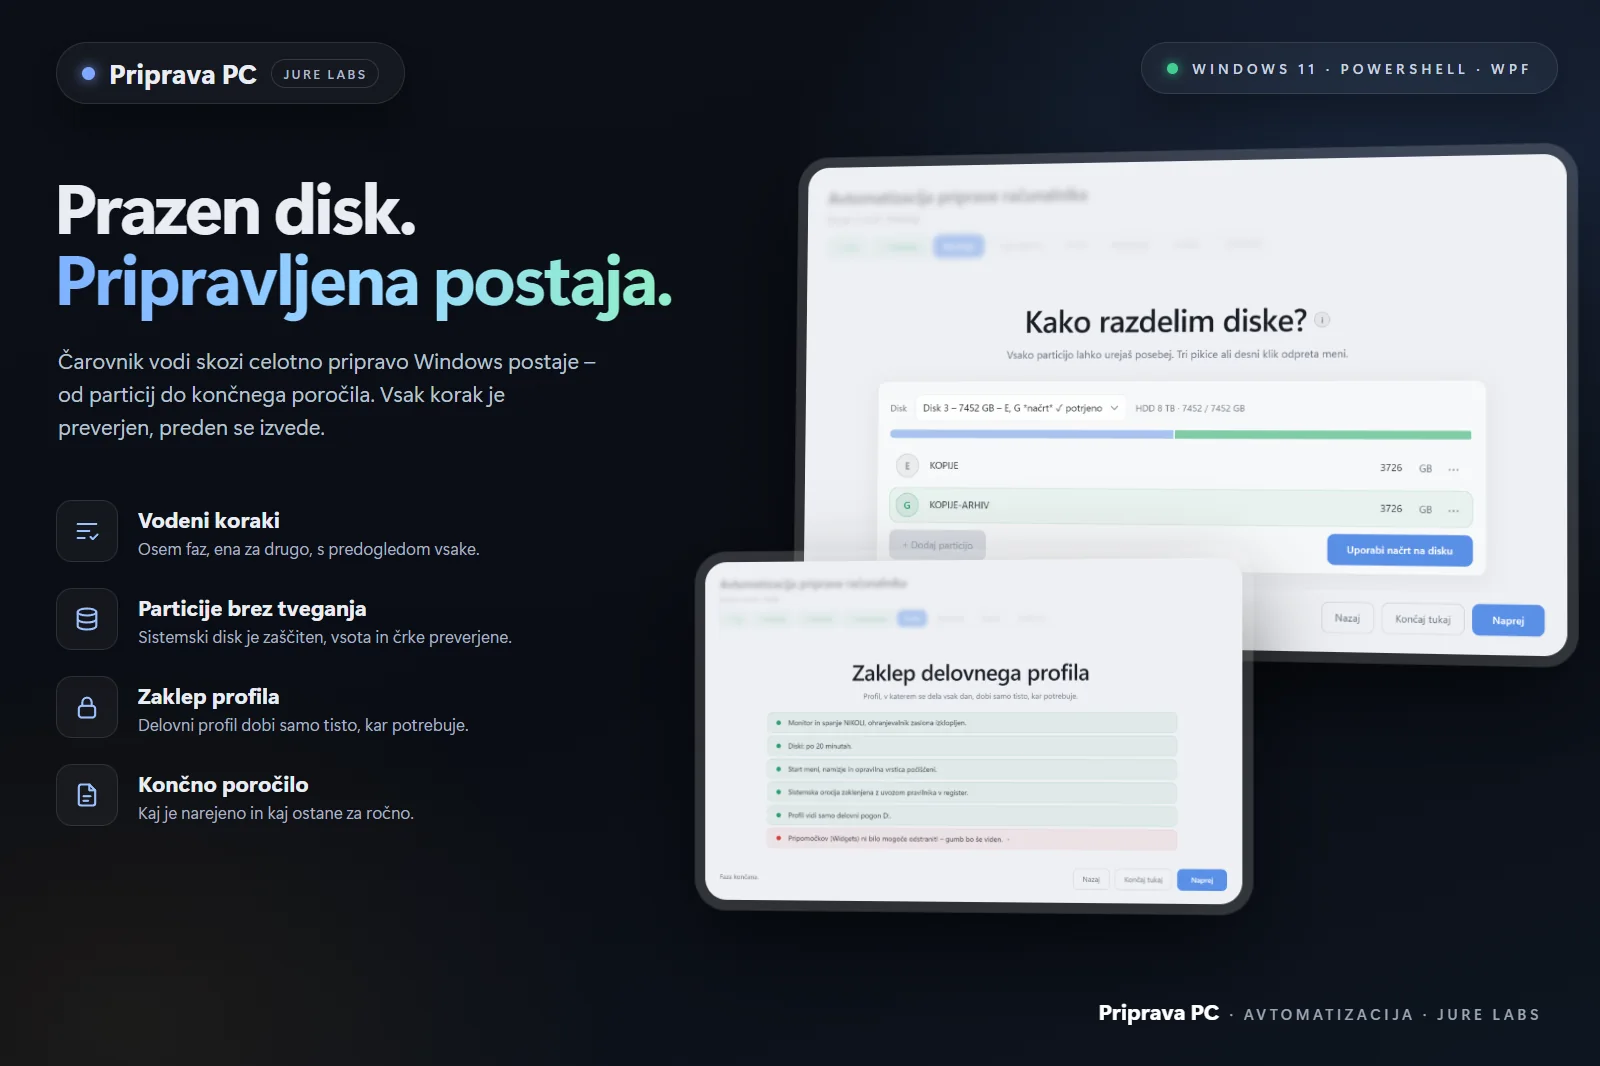
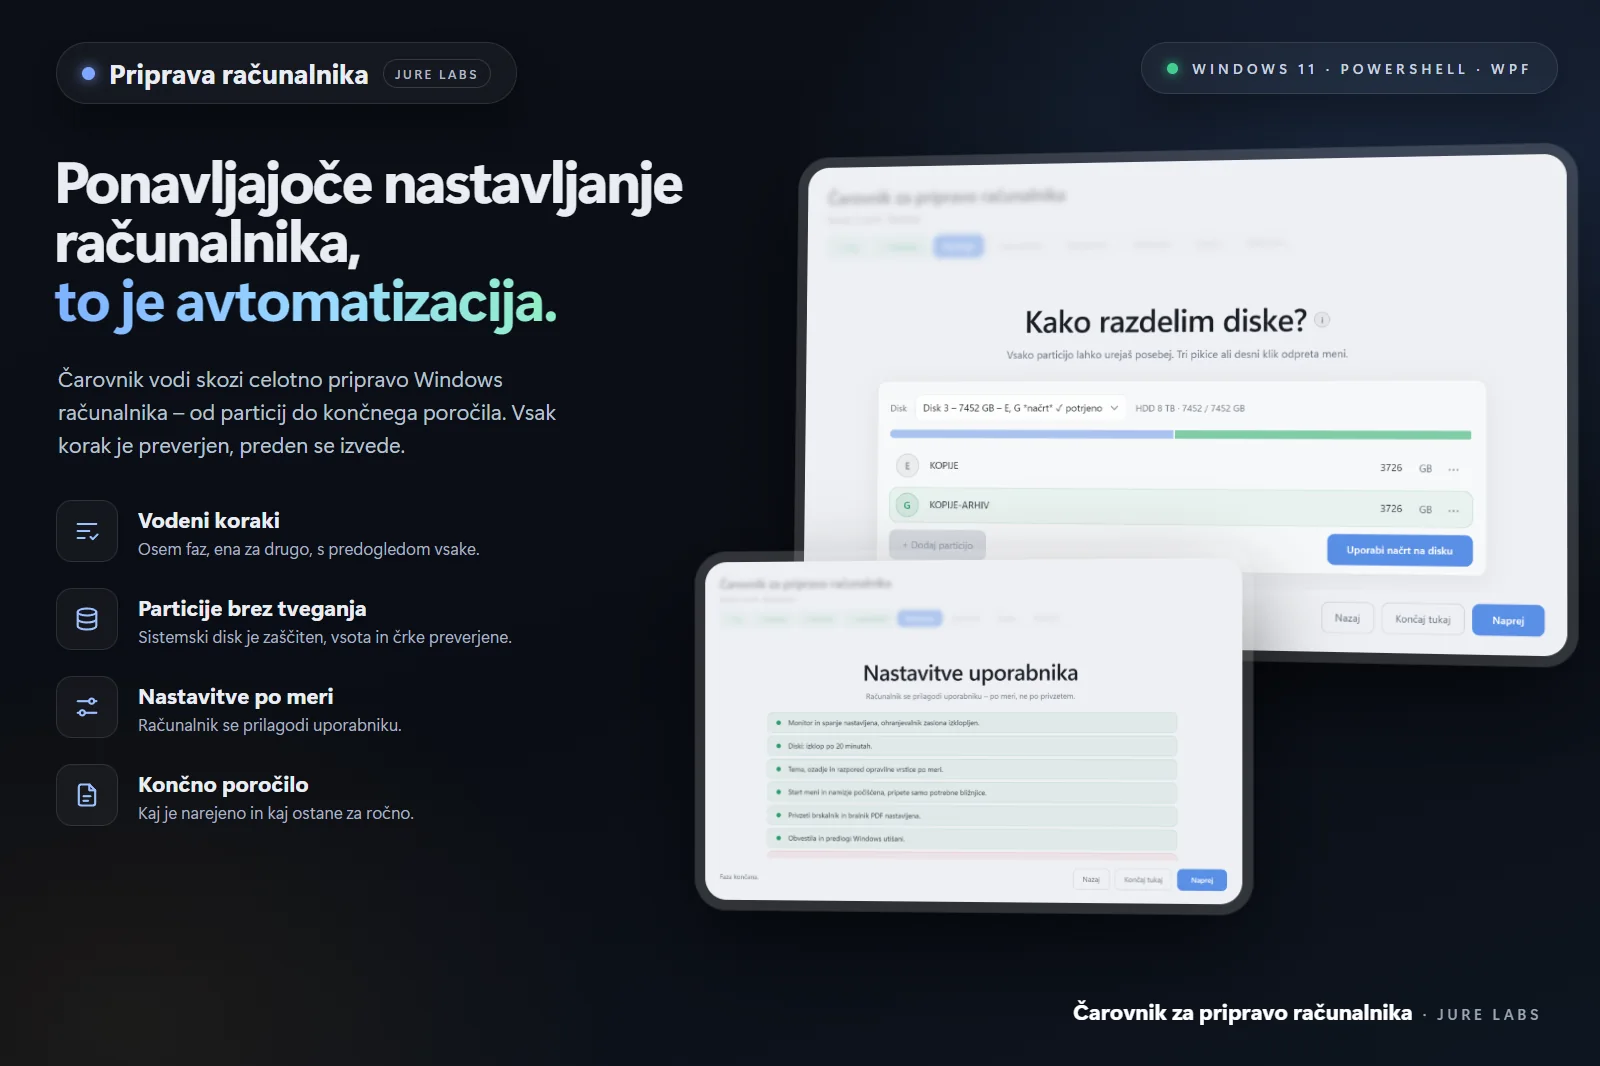
Carovnik za pripravo racunalnika: splosna predstavitev (streznik/odjemalec, prazna polja, nastavitve po meri), nov plakat

diff --git a/public/demo/priprava-pc/index.html b/public/demo/priprava-pc/index.html
@@ -3,14 +3,15 @@
 <head>
 <meta charset="utf-8" />
 <meta name="viewport" content="width=device-width, initial-scale=1" />
-<title>Avtomatizacija priprave računalnika · predstavitev</title>
+<title>Čarovnik za pripravo računalnika · predstavitev</title>
 <!--
   Predstavitvena razlicica carovnika za pripravo racunalnika.
 
   Izvirnik je WPF okno v PowerShellu, ki vodi po fazah priprave Windows
   postaje. Tu je isti videz in isti potek v brskalniku - s to razliko, da se
-  nic ne izvede in da so vsi podatki izmisljeni. Prava gesla, naslovi in
-  nastavitve narocnika v predstavitev ne sodijo in jih tu ni.
+  nic ne izvede in da je vse splosno: streznik ali odjemalec, prazna polja
+  za podatke in nastavitve uporabnika po meri. Izvirnik je nastal za sluzbo;
+  njegovi podatki in nastavitve v predstavitev ne sodijo in jih tu ni.
 -->
 <style>
   :root {
@@ -155,6 +156,7 @@
     box-shadow: 0 2px 10px rgba(16, 24, 40, 0.04);
     transition: border-color 160ms var(--ease), box-shadow 160ms var(--ease);
   }
+  .polje input::placeholder { color: #a4acb9; }
   .polje input:focus { border-color: var(--modra); box-shadow: 0 0 0 3px rgba(90, 143, 230, 0.14); }
 
   /* particije */
@@ -281,14 +283,14 @@
   <div class="uvod-vsebina">
     <div id="epr-uvod"></div>
     <div class="logo-napis">Jure Labs</div>
-    <div class="podnapis">Avtomatizacija priprave računalnika</div>
+    <div class="podnapis">Čarovnik za pripravo računalnika</div>
   </div>
 </div>
 
 <div id="glavni">
   <div class="ozadje">
     <div class="glava">
-      <h1>Avtomatizacija priprave računalnika</h1>
+      <h1>Čarovnik za pripravo računalnika</h1>
       <p id="glava2"></p>
     </div>
     <div class="koraki" id="koraki"></div>
@@ -341,18 +343,20 @@ const EPRUVETA = `<svg viewBox="0 0 420 470" aria-hidden="true">
 document.getElementById("epr-uvod").innerHTML = EPRUVETA;
 
 // --- stanje --------------------------------------------------------------------
-// Vsi podatki so izmisljeni. Pravi carovnik diske prebere z Get-Disk.
+// Polja so prazna: vpise jih, kdor carovnik preizkusa. Diski so primer -
+// pravi carovnik jih prebere z Get-Disk.
 const iz = {
   tip: "",
-  objekt: "Poslovna stavba Primer",
-  dn: "2026 / PC012",
-  sn: "100245",
-  ime: "PRIMER-DP01",
-  skupina: "WORKGROUP",
-  izvajalec: "Jure",
-  kopije: "E:\\Kopije",
-  namestitve: "D:\\Namestitev",
+  ime: "",
+  skupina: "",
+  uporabnik: "",
+  izvajalec: "",
+  kopije: "",
+  namestitve: "",
 };
+/** Vrednost polja za izpis; prazno polje je pomisljaj. */
+const vr = (k) => (String(iz[k] ?? "").trim() || "—");
+const TIP = { streznik: "strežnik", odjemalec: "odjemalec (PC)" };
 const CRKE = ["D", "E", "F", "G", "H", "I", "J", "K"];
 const diski = [
   { st: 1, gb: 477, sistem: true, naziv: "NVMe SSD", parts: [{ crka: "C", oznaka: "SISTEM", gb: 477 }] },
@@ -390,14 +394,14 @@ const ubezi = (s) => String(s).replace(/[&<>"]/g, (c) => ({ "&": "&amp;", "<": "
 const FAZE = [
   {
     pill: "Tip",
-    naslov: "Kakšna postaja je to?",
-    namig: "Od te izbire je odvisno, kdaj se izklopijo diski:\nDelovna postaja - diski se izklopijo po 20 minutah.\nStrežnik - diski se NIKOLI ne izklopijo.\n\nMonitor in spanje sta v obeh primerih izklopljena za vedno.",
+    naslov: "Kakšen računalnik je to?",
+    namig: "Od te izbire je odvisno, kdaj se izklopijo diski:\nOdjemalec (PC) - diski se izklopijo po 20 minutah.\nStrežnik - diski se NIKOLI ne izklopijo.\n\nMonitor in spanje sta v obeh primerih izklopljena za vedno.",
     kontrole: "tip",
     vrstice: () =>
       !iz.tip ? [] : [
         iz.tip === "streznik"
           ? { v: "ok", t: "Strežnik – diski se NIKOLI ne izklopijo." }
-          : { v: "ok", t: "Delovna postaja – diski se izklopijo po 20 minutah." },
+          : { v: "ok", t: "Odjemalec (PC) – diski se izklopijo po 20 minutah." },
         { v: "ok", t: "Monitor in spanje sta v obeh primerih izklopljena za vedno." },
         { v: "info", t: "Izbira velja za vse nadaljnje faze." },
       ],
@@ -405,15 +409,16 @@ const FAZE = [
   {
     pill: "Podatki",
     naslov: "Kateri računalnik pripravljaš?",
-    podnaslov: "Ti podatki gredo v kontrolni list in v končno poročilo.",
+    podnaslov: "Vpiši, kar veš – podatki gredo v končno poročilo. Polja lahko ostanejo prazna.",
     namig: "Vnesejo se enkrat, vse nadaljnje faze jih preberejo same.\n\nShranijo se na disk in preživijo ponovne zagone in menjave uporabnika, zato lahko postopek nadaljuješ po zagonu.",
     kontrole: "podatki",
     vrstice: () => [
-      { v: "ok", t: `Objekt: ${iz.objekt}` },
-      { v: "ok", t: `DN: ${iz.dn},  SN PC: ${iz.sn}` },
-      { v: "ok", t: `Ime računalnika: ${iz.ime},  delovna skupina: ${iz.skupina}` },
-      { v: "ok", t: `Varnostne kopije v ${iz.kopije},  namestitvene datoteke iz ${iz.namestitve}` },
-      { v: "ok", t: `Izvajal: ${iz.izvajalec},  datum: ${new Date().toLocaleDateString("sl-SI")}` },
+      { v: "ok", t: `Tip: ${TIP[iz.tip] ?? "—"}` },
+      { v: "ok", t: `Ime računalnika: ${vr("ime")},  delovna skupina: ${vr("skupina")}` },
+      { v: "ok", t: `Uporabnik: ${vr("uporabnik")}` },
+      { v: "ok", t: `Varnostne kopije v ${vr("kopije")},  namestitvene datoteke iz ${vr("namestitve")}` },
+      { v: "ok", t: `Izvajal: ${vr("izvajalec")},  datum: ${new Date().toLocaleDateString("sl-SI")}` },
+      ...(!iz.ime.trim() ? [{ v: "info", t: "Brez imena računalnik obdrži ime, ki ga ima zdaj." }] : []),
     ],
   },
   {
@@ -449,25 +454,27 @@ const FAZE = [
     podnaslov: "Lokalni računi, ime računalnika, Windows posodobitve.",
     tece: true,
     vrstice: () => [
-      { v: "ok", t: "Lokalni računi ustvarjeni – vsak s svojo vlogo, gesla ne potečejo." },
-      { v: "ok", t: "Privzeti profil je onemogočen." },
-      { v: "ok", t: `Računalnik preimenovan v ${iz.ime}, delovna skupina ${iz.skupina}.` },
+      { v: "ok", t: `Lokalni račun ${iz.uporabnik.trim() ? `»${iz.uporabnik.trim()}« ` : ""}ustvarjen, skrbniški račun ločen od njega.` },
+      iz.ime.trim()
+        ? { v: "ok", t: `Računalnik preimenovan v ${iz.ime.trim()}${iz.skupina.trim() ? `, delovna skupina ${iz.skupina.trim()}` : ""}.` }
+        : { v: "info", t: "Ime računalnika ostane, kakršno je." },
       { v: "ok", t: "Nameščenih 14 Windows posodobitev." },
       { v: "warn", t: "Nastavitve v BIOS-u nisi potrdil – ostane na seznamu ročnih korakov." },
-      { v: "info", t: "Potreben je ponovni zagon, nato prijava v omejen profil." },
+      { v: "info", t: "Potreben je ponovni zagon, nato prijava v uporabnikov račun." },
     ],
   },
   {
-    pill: "Profil",
-    naslov: "Zaklep delovnega profila",
-    podnaslov: "Profil, v katerem se dela vsak dan, dobi samo tisto, kar potrebuje.",
+    pill: "Nastavitve",
+    naslov: "Nastavitve uporabnika",
+    podnaslov: "Računalnik se prilagodi uporabniku – po meri, ne po privzetem.",
     tece: true,
     vrstice: () => [
-      { v: "ok", t: "Monitor in spanje NIKOLI, ohranjevalnik zaslona izklopljen." },
-      { v: "ok", t: `Diski: ${iz.tip === "streznik" ? "nikoli" : "po 20 minutah"}.` },
-      { v: "ok", t: "Start meni, namizje in opravilna vrstica počiščeni." },
-      { v: "ok", t: "Sistemska orodja zaklenjena z uvozom pravilnika v register." },
-      { v: "ok", t: "Profil vidi samo delovni pogon D:." },
+      { v: "ok", t: "Monitor in spanje nastavljena, ohranjevalnik zaslona izklopljen." },
+      { v: "ok", t: `Diski: ${iz.tip === "streznik" ? "se nikoli ne izklopijo" : "izklop po 20 minutah"}.` },
+      { v: "ok", t: "Tema, ozadje in razpored opravilne vrstice po meri." },
+      { v: "ok", t: "Start meni in namizje počiščena, pripete samo potrebne bližnjice." },
+      { v: "ok", t: "Privzeti brskalnik in bralnik PDF nastavljena." },
+      { v: "ok", t: "Obvestila in predlogi Windows utišani." },
       { v: "alert", t: "Pripomočkov (Widgets) ni bilo mogoče odstraniti – gumb bo še viden.", p: "Paket je sistemski in ga ta različica Windows ne dovoli odstraniti. Rešitev: Nastavitve › Prilagoditev › Opravilna vrstica › Pripomočki = izklopljeno." },
     ],
   },
@@ -479,7 +486,7 @@ const FAZE = [
     vrstice: () => [
       { v: "ok", t: "Google Chrome, Adobe Acrobat Reader in OpenOffice so nameščeni." },
       { v: "ok", t: "Raziskovalec pokaže skrite datoteke in končnice." },
-      { v: "warn", t: "Ročno še: programska oprema naročnika." },
+      { v: "warn", t: "Ročno še: programi, ki jih uporabnik potrebuje posebej." },
     ],
   },
   {
@@ -557,15 +564,17 @@ function odigraj() {
 function kontroleHtml(f) {
   if (f.kontrole === "tip") {
     return `<div class="izbire">
-      <button class="izbira${iz.tip === "dp" ? " izbrana" : ""}" data-tip="dp" type="button"><b>Delovna postaja</b><span>Diski se izklopijo po 20 minutah.</span></button>
-      <button class="izbira${iz.tip === "streznik" ? " izbrana" : ""}" data-tip="streznik" type="button"><b>Strežnik</b><span>Diski se nikoli ne izklopijo.</span></button>
+      <button class="izbira${iz.tip === "odjemalec" ? " izbrana" : ""}" data-tip="odjemalec" type="button"><b>Odjemalec (PC)</b><span>Računalnik za delo. Diski se izklopijo po 20 minutah.</span></button>
+      <button class="izbira${iz.tip === "streznik" ? " izbrana" : ""}" data-tip="streznik" type="button"><b>Strežnik</b><span>Teče ves čas. Diski se nikoli ne izklopijo.</span></button>
     </div>`;
   }
   if (f.kontrole === "podatki") {
-    const p = (k, l) => `<div class="polje"><label>${l}</label><input data-k="${k}" value="${ubezi(iz[k])}" /></div>`;
+    const p = (k, l, primer) =>
+      `<div class="polje"><label>${l}</label><input data-k="${k}" value="${ubezi(iz[k])}" placeholder="${primer}" /></div>`;
     return `<div class="kartica"><div class="polja">
-      ${p("objekt", "Objekt")}${p("dn", "DN")}${p("sn", "SN računalnika")}${p("ime", "Ime računalnika")}
-      ${p("skupina", "Delovna skupina")}${p("izvajalec", "Izvajalec")}${p("kopije", "Pot za varnostne kopije")}${p("namestitve", "Namestitvene datoteke")}
+      ${p("ime", "Ime računalnika", "npr. PC-01")}${p("skupina", "Delovna skupina", "npr. WORKGROUP")}
+      ${p("uporabnik", "Uporabnik", "npr. ana")}${p("izvajalec", "Izvajalec", "tvoje ime")}
+      ${p("kopije", "Pot za varnostne kopije", "npr. E:\\Kopije")}${p("namestitve", "Namestitvene datoteke", "npr. D:\\Namestitev")}
     </div></div>`;
   }
   if (f.kontrole === "particije") return `<div class="kartica" id="part"></div>`;
@@ -634,7 +643,7 @@ function narisiFazo(zamenjava = true) {
     narisiKorake();
     if (konec) {
       vsebina.innerHTML = `<div class="konec">${EPRUVETA}<h2>Računalnik je pripravljen.</h2>
-        <p>${ubezi(iz.ime)} · ${iz.tip === "streznik" ? "strežnik" : "delovna postaja"} · končno poročilo je shranjeno.</p></div>`;
+        <p>${iz.ime.trim() ? ubezi(iz.ime.trim()) + " · " : ""}${TIP[iz.tip] ?? "računalnik"} · končno poročilo je shranjeno.</p></div>`;
       $("stanje").textContent = "Predstavitev · na tem računalniku se ni nič spremenilo.";
     } else {
       const f = FAZE[faza];
@@ -770,7 +779,7 @@ $("izhod").addEventListener("click", () => { konec = true; narisiFazo(); });
 // ?faza=2 odpre naravnost pri particijah (za posnetek zaslona).
 const zacetna = Number(new URLSearchParams(location.search).get("faza"));
 if (zacetna > 0) {
-  iz.tip = "dp";
+  iz.tip = "odjemalec";
   faza = Math.min(zacetna, FAZE.length - 1);
   $("uvod").remove();
   $("glavni").classList.add("viden");

diff --git a/src/cv/vsebina.js b/src/cv/vsebina.js
@@ -86,15 +86,15 @@ export const DELO = {
       tip: "par",
       obrnjen: true,
       oznaka: "Projekt",
-      naslov: "Priprava PC",
+      naslov: "Čarovnik za pripravo računalnika",
       telo:
-        "Čarovnik, ki vodi skozi celotno pripravo Windows postaje: particije, " +
-        "uporabniki, zaklep profila, programi in varnostne kopije. Vsak korak " +
-        "preveri, preden ga izvede, na koncu pa napiše poročilo – kaj je " +
-        "narejeno in kaj ostane za ročno.",
+        "Ponavljajoče nastavljanje računalnika, spremenjeno v čarovnika. Strežnik " +
+        "ali odjemalec: particije, uporabniki, nastavitve po meri, programi in " +
+        "varnostne kopije. Vsak korak preveri, preden ga izvede, na koncu pa " +
+        "napiše poročilo – kaj je narejeno in kaj ostane za ročno.",
       znacke: ["PowerShell", "WPF", "Windows 11", "Avtomatizacija"],
-      // Vmesnik izvirnika v brskalniku; nic se ne izvede, podatki so izmisljeni.
-      aplikacija: { pot: "demo/priprava-pc/index.html", ime: "Priprava PC" },
+      // Vmesnik izvirnika v brskalniku; nic se ne izvede, polja so prazna.
+      aplikacija: { pot: "demo/priprava-pc/index.html", ime: "Čarovnik za pripravo računalnika" },
       slika: pripravaSlika,
       razmerje: "3 / 2",
     },
@@ -331,13 +331,13 @@ export const ARHIV = {
     {
       tip: "par",
       oznaka: "2026 · v razvoju",
-      naslov: "Priprava PC",
+      naslov: "Čarovnik za pripravo računalnika",
       telo:
-        "Čarovnik za pripravo Windows postaj in strežnikov po kontrolnem " +
-        "listu. Particije, uporabniki, zaklep profila in namestitve brez " +
+        "Ponavljajoče nastavljanje računalnika, spremenjeno v čarovnika. " +
+        "Particije, uporabniki, nastavitve po meri in namestitve brez " +
         "interneta – vsak korak preverjen, preden se izvede.",
       znacke: ["PowerShell", "WPF", "Windows 11"],
-      aplikacija: { pot: "demo/priprava-pc/index.html", ime: "Priprava PC" },
+      aplikacija: { pot: "demo/priprava-pc/index.html", ime: "Čarovnik za pripravo računalnika" },
       slika: pripravaSlika,
       razmerje: "3 / 2",
     },

diff --git a/src/cv/prevodi/en.js b/src/cv/prevodi/en.js
@@ -174,11 +174,11 @@ export default {
       },
       {
         oznaka: "Project",
-        naslov: "PC Setup",
+        naslov: "Computer setup wizard",
         telo:
-          "A wizard that guides you through setting up a Windows workstation from start to finish: " +
-          "partitions, users, profile lockdown, software and backups. It checks every step before " +
-          "running it and ends with a report – what's done and what's left to do by hand.",
+          "Repetitive computer setup, turned into a wizard. Server or client: partitions, users, " +
+          "custom settings, software and backups. It checks every step before running it and ends " +
+          "with a report – what's done and what's left to do by hand.",
         znacke: ["PowerShell", "WPF", "Windows 11", "Automation"],
       },
       {
@@ -368,10 +368,10 @@ export default {
       },
       {
         oznaka: "2026 · in development",
-        naslov: "PC Setup",
+        naslov: "Computer setup wizard",
         telo:
-          "A wizard for setting up Windows workstations and servers from a checklist. Partitions, " +
-          "users, profile lockdown and offline installs – every step checked before it runs.",
+          "Repetitive computer setup, turned into a wizard. Partitions, users, custom settings " +
+          "and offline installs – every step checked before it runs.",
         znacke: ["PowerShell", "WPF", "Windows 11"],
       },
       {
